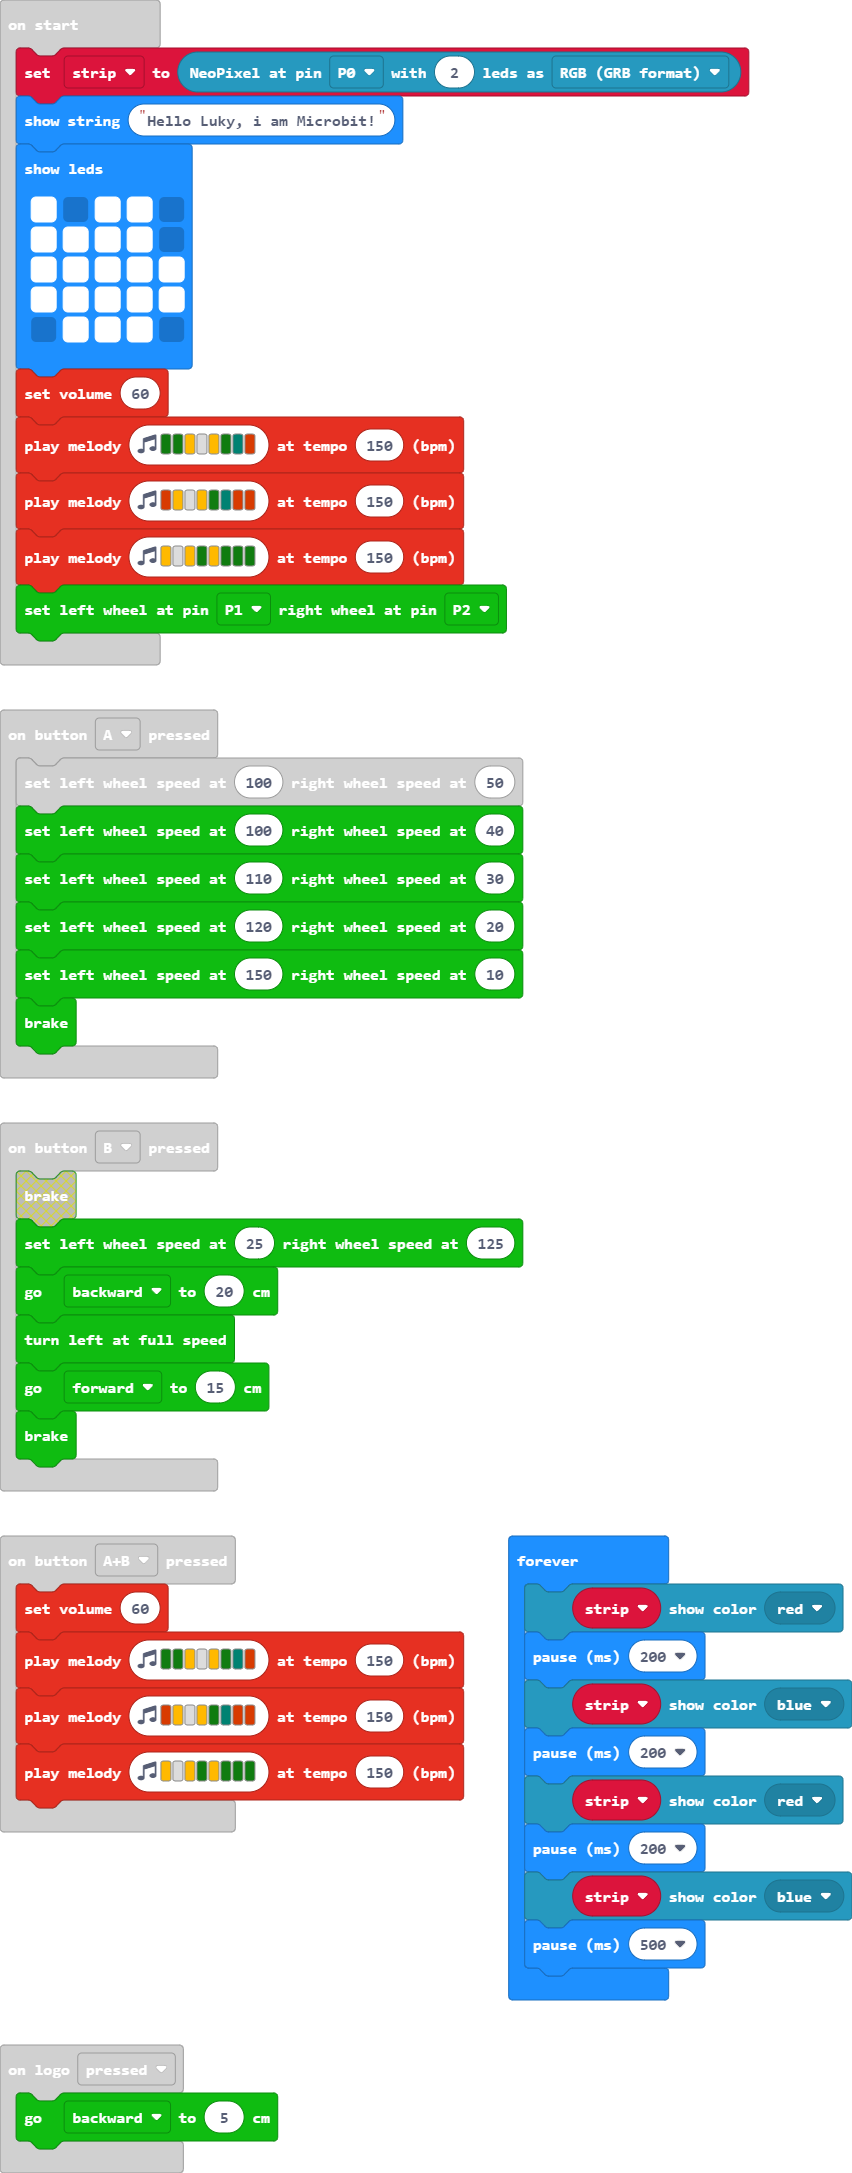
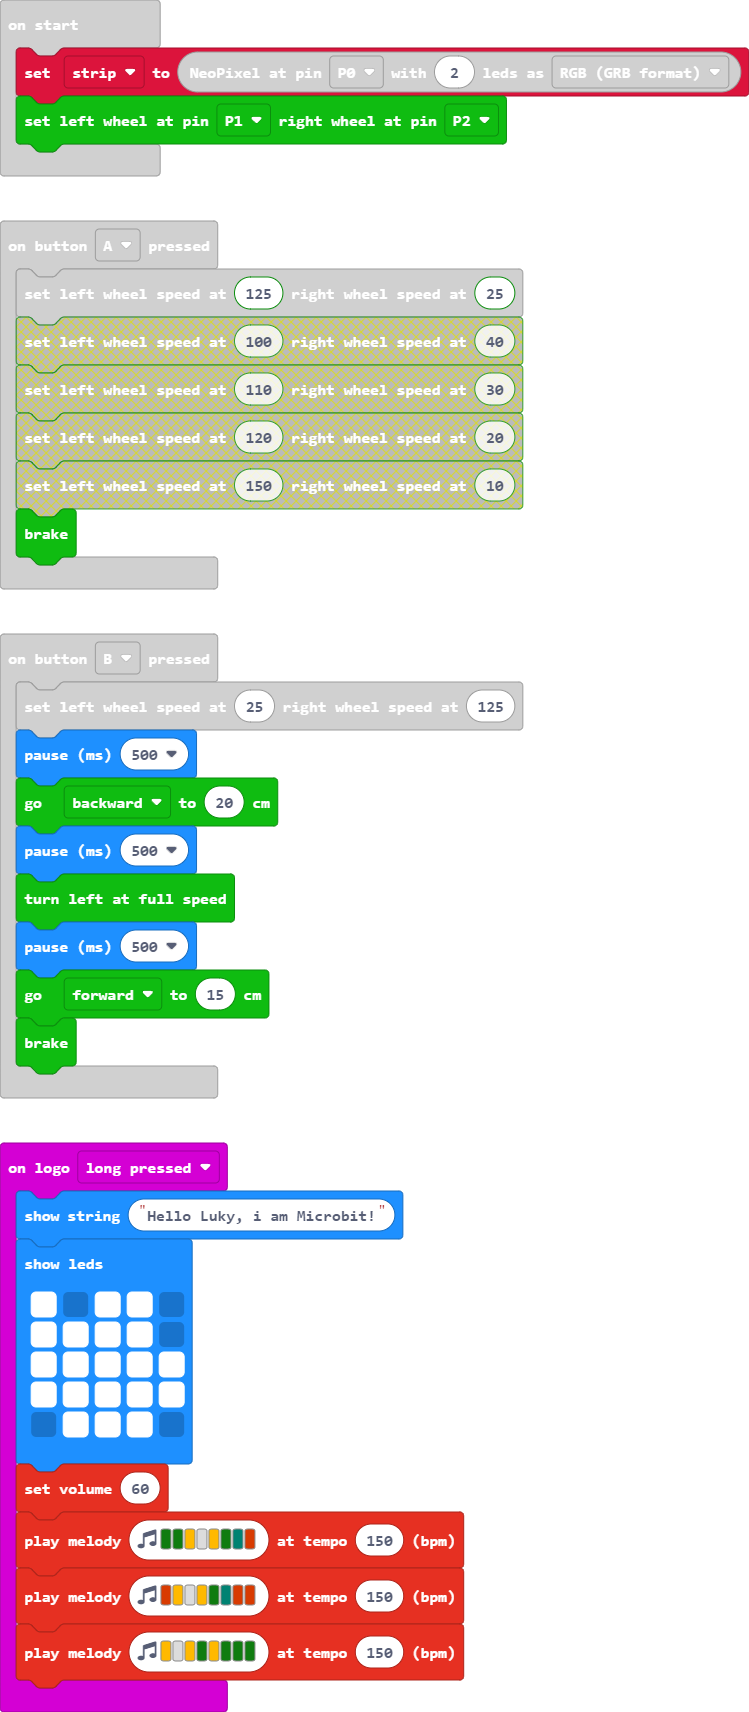
Update pxt.json, main.blocks, main.ts

diff --git a/main.ts b/main.ts
@@ -1,9 +1,19 @@
+input.onLogoEvent(TouchButtonEvent.LongPressed, function () {
+    basic.showString("Hello Luky, i am Microbit!")
+    basic.showLeds(`
+        # . # # .
+        # # # # .
+        # # # # #
+        # # # # #
+        . # # # .
+        `)
+    music.setVolume(60)
+    music.playMelody("G G A - A G F B ", 150)
+    music.playMelody("B A - A G F B B ", 150)
+    music.playMelody("A - A G A G G G ", 150)
+})
 input.onButtonPressed(Button.A, function () {
-    RingbitCar.freestyle(100, 50)
-    RingbitCar.freestyle(100, 40)
-    RingbitCar.freestyle(110, 30)
-    RingbitCar.freestyle(120, 20)
-    RingbitCar.freestyle(150, 10)
+    RingbitCar.freestyle(125, 25)
     RingbitCar.brake()
 })
 input.onButtonPressed(Button.AB, function () {
@@ -14,8 +24,11 @@ input.onButtonPressed(Button.AB, function () {
 })
 input.onButtonPressed(Button.B, function () {
     RingbitCar.freestyle(25, 125)
+    basic.pause(500)
     RingbitCar.running_distance(RingbitCar.Direction_run.backward, 20)
+    basic.pause(500)
     RingbitCar.turnleft()
+    basic.pause(500)
     RingbitCar.running_distance(RingbitCar.Direction_run.forward, 15)
     RingbitCar.brake()
 })
@@ -23,18 +36,6 @@ input.onLogoEvent(TouchButtonEvent.Pressed, function () {
     RingbitCar.running_distance(RingbitCar.Direction_run.backward, 5)
 })
 let strip = neopixel.create(DigitalPin.P0, 2, NeoPixelMode.RGB)
-basic.showString("Hello Luky, i am Microbit!")
-basic.showLeds(`
-    # . # # .
-    # # # # .
-    # # # # #
-    # # # # #
-    . # # # .
-    `)
-music.setVolume(60)
-music.playMelody("G G A - A G F B ", 150)
-music.playMelody("B A - A G F B B ", 150)
-music.playMelody("A - A G A G G G ", 150)
 RingbitCar.init_wheel(AnalogPin.P1, AnalogPin.P2)
 basic.forever(function () {
     strip.showColor(neopixel.colors(NeoPixelColors.Red))
